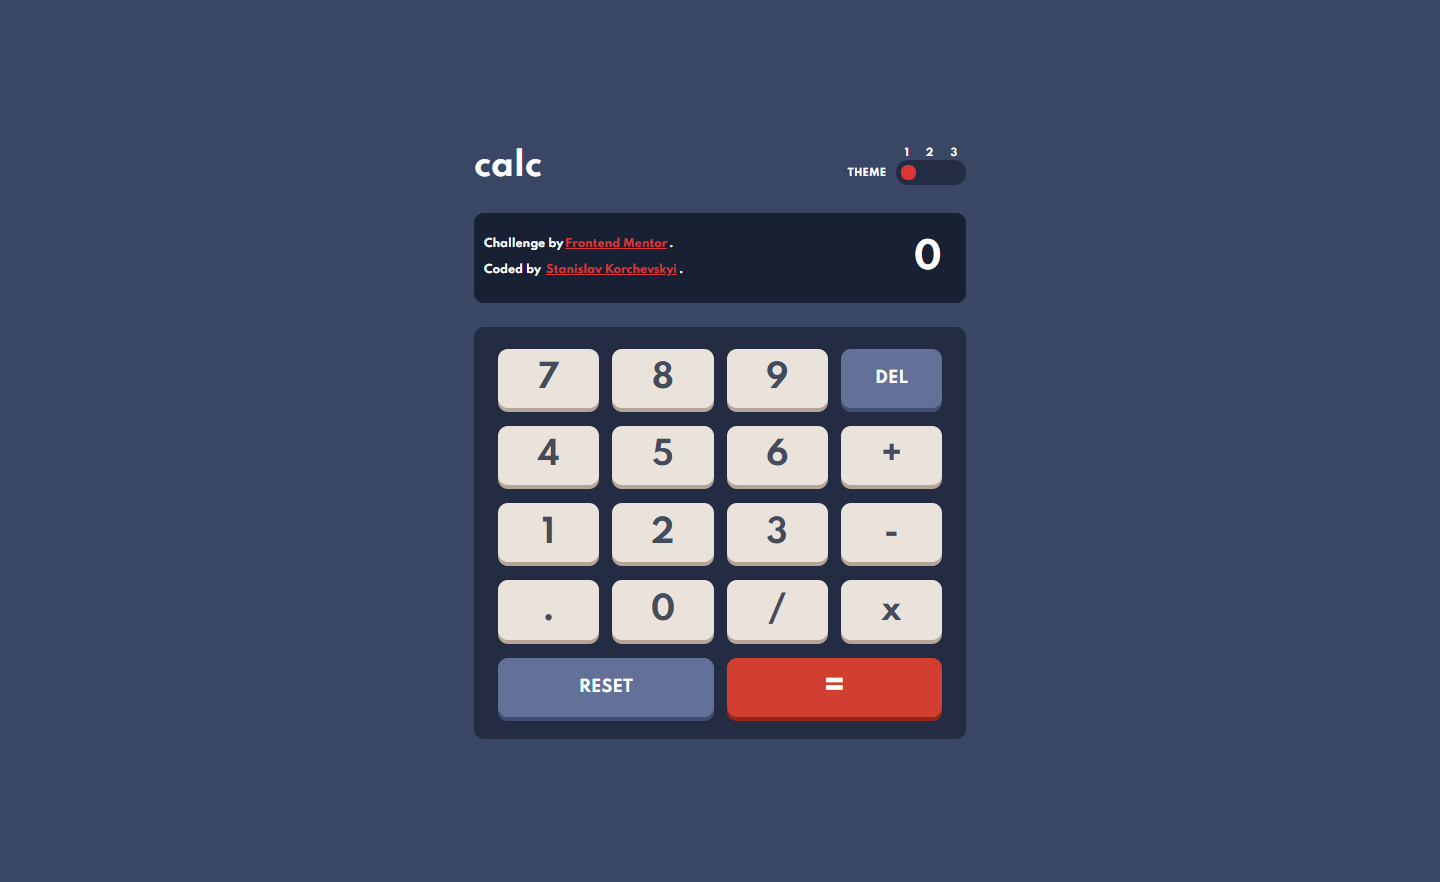
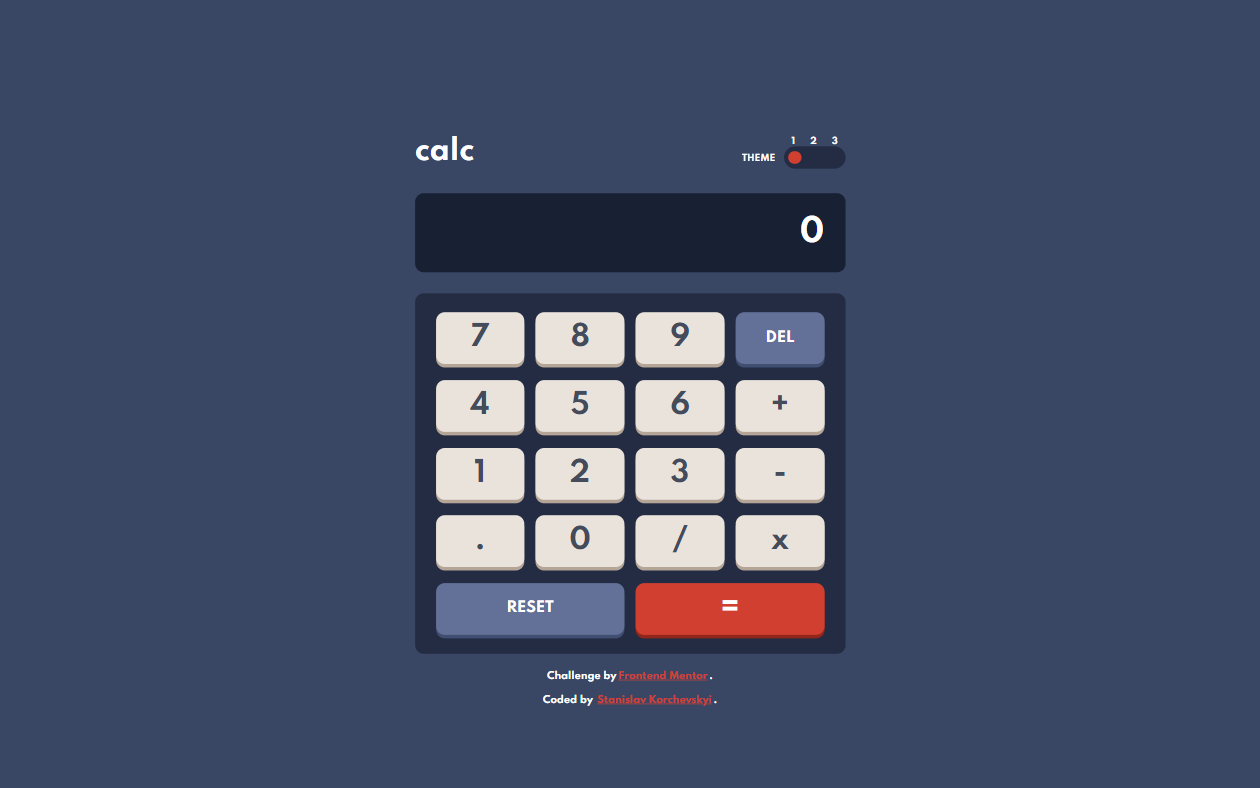
optimization

diff --git a/index.html b/index.html
@@ -40,21 +40,6 @@
       </header>
 
       <section class="screen flex">
-        <div class="attribution flex">
-          <span
-            >Challenge by<a
-              href="https://www.frontendmentor.io?ref=challenge"
-              target="_blank"
-              >Frontend Mentor</a
-            >.</span
-          ><br />
-          <span
-            >Coded by
-            <a href="https://www.instagram.com/stanislav.codes/"
-              >Stanislav Korchevskyi</a
-            >.</span
-          >
-        </div>
         <h2 class="result">0</h2>
       </section>
 
@@ -114,6 +99,22 @@
           <h3>=</h3>
         </div>
       </section>
+
+      <footer class="attribution flex">
+          <span
+            >Challenge by<a
+              href="https://www.frontendmentor.io?ref=challenge"
+              target="_blank"
+              >Frontend Mentor</a
+            >.</span
+          ><br />
+          <span
+            >Coded by
+            <a href="https://www.instagram.com/stanislav.codes/"
+              >Stanislav Korchevskyi</a
+            >.</span
+          >
+        </footer>
     </main>
     <script
       src="https://cdnjs.cloudflare.com/ajax/libs/gsap/3.9.1/gsap.min.js"

diff --git a/css/style.css b/css/style.css
@@ -197,33 +197,46 @@ h1 {
 }
 .attribution {
   position: absolute;
-  top: 50%;
-  left: 20px;
-  transform: translateY(-50%);
+  bottom: 30px;
+  left: 50%;
+  transform: translateX(-50%);
   width: 240px;
-  height: 100%;
+  /* height: 100%; */
   flex-direction: column;
   justify-content: center;
   border-radius: 1rem;
   font-size: 11px;
 }
-.attribution span a {
-  color: var(--key-toggle);
+.attribution span  {
+  text-align: center;
 }
 .attribution span a {
+  color: var(--key-toggle);
   margin: 0 2px;
 }
 @media screen and (max-width: 359px) {
-  .key span {
+  .attribution {
+    bottom: 10px;
+    font-size: 9px;
+  }
+  .key-box {
+    padding: 1.6rem 1.8rem;
+    column-gap: .8rem;
+    row-gap: 1.2rem;
+  }
+  .key h3 {
     font-size: 2.2rem;
   }
-  .del span,
-  .reset span,
-  .equal span {
+  .del h3,
+  .reset h3,
+  .equal h3 {
     font-size: 1.4rem;
   }
 }
 @media screen and (min-width: 700px) {
+  .attribution {
+    bottom: -35px;
+  }
   body {
     display: flex;
   }

diff --git a/js/script.js b/js/script.js
@@ -1,15 +1,3 @@
-// listener to hide attribution
-const keys = document.querySelectorAll(".key");
-const attribution = document.querySelector(".attribution");
-keys.forEach((key) => {
-  key.addEventListener("click", () => {
-    gsap.fromTo(".attribution", { opacity: 1, x:0 }, { opacity: 0, x: 80, duration: 0.25});
-    setTimeout(() => {
-      attribution.style.display = "none"
-    }, 250);
-  });
-});
-
 // theme switcher
 const toggler = document.querySelector(".toggler");
 const togglerSwitch = document.querySelector(".toggler-switch");
@@ -136,5 +124,3 @@ del.addEventListener("click", deleteLast);
 
 // some gsap animations
 gsap.fromTo(".calculator-box", { scale: 0.85 }, { scale: 1 });
-gsap.fromTo(".attribution", { x: 60 }, { x: 0 });
-gsap.fromTo(".result", { x: -60 }, { x: 0 });
